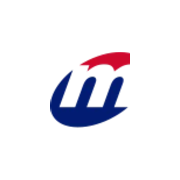
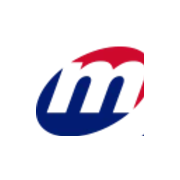
PWA: ícono con el swoosh COMPLETO de la m (v4)
El problema real no era el margen ni el recorte del tile: el recorte de la m del
logo (x0-67) cortaba la cola del swoosh rojo que baja a la derecha. Se amplió el
recorte a x0-77 (incluye la curva completa del swoosh, sin la 'a'/'s'). Versionado
a v4 (apple + manifest) para forzar refresco.

Changed region(s): [[0.1944, 0.25, 0.8056, 0.7778]]

diff --git a/index.html b/index.html
@@ -11,8 +11,8 @@
 <meta name="apple-mobile-web-app-capable" content="yes">
 <meta name="apple-mobile-web-app-status-bar-style" content="black-translucent">
 <meta name="apple-mobile-web-app-title" content="Mateu">
-<link rel="apple-touch-icon" href="icons/apple-touch-icon-v3.png">
-<link rel="icon" type="image/png" sizes="192x192" href="icons/icon-192.png?v=3">
+<link rel="apple-touch-icon" href="icons/apple-touch-icon-v4.png">
+<link rel="icon" type="image/png" sizes="192x192" href="icons/icon-192.png?v=4">
 <link href="https://fonts.googleapis.com/css2?family=Bebas+Neue&family=Barlow+Condensed:wght@400;500;600;700&family=Barlow:wght@300;400;500;600&display=swap" rel="stylesheet">
 <link rel="stylesheet" href="shared/components/calendario-retail/calendario.css">
 <style>
@@ -410,6 +410,7 @@ const TOOLS = {
   ubicaciones:   { name:'Buscador de Artículos', desc:'Dónde está guardado cada artículo en el depósito de tu sucursal.', icon:'📍', url:'./ubicaciones/', red:true },
   regalias:      { name:'Regalías RUGE / EDLP',  desc:'Liquidación mensual de regalías del contrato RUGE/EDLP (Estudiantes).', icon:'⚽', url:'./regalias/', red:true },
   presupuesto:   { name:'Presupuesto de Compras', desc:'Presupuesto vs. ejecución de compras por proveedor, rubro y período.', icon:'💰', url:'./presupuesto/', red:true },
+  barrida:       { name:'Barrida de Reserva',     desc:'Cruce semanal de la reserva del depósito con las ventas por sucursal: reposición posible y reserva parada.', icon:'🧹', url:'./barrida/', red:true },
 };
 
 const ROLE_LABEL = { admin:'Administrador', supervisor:'Supervisor', sucursal:'Sucursal', outlet:'Outlet' };
